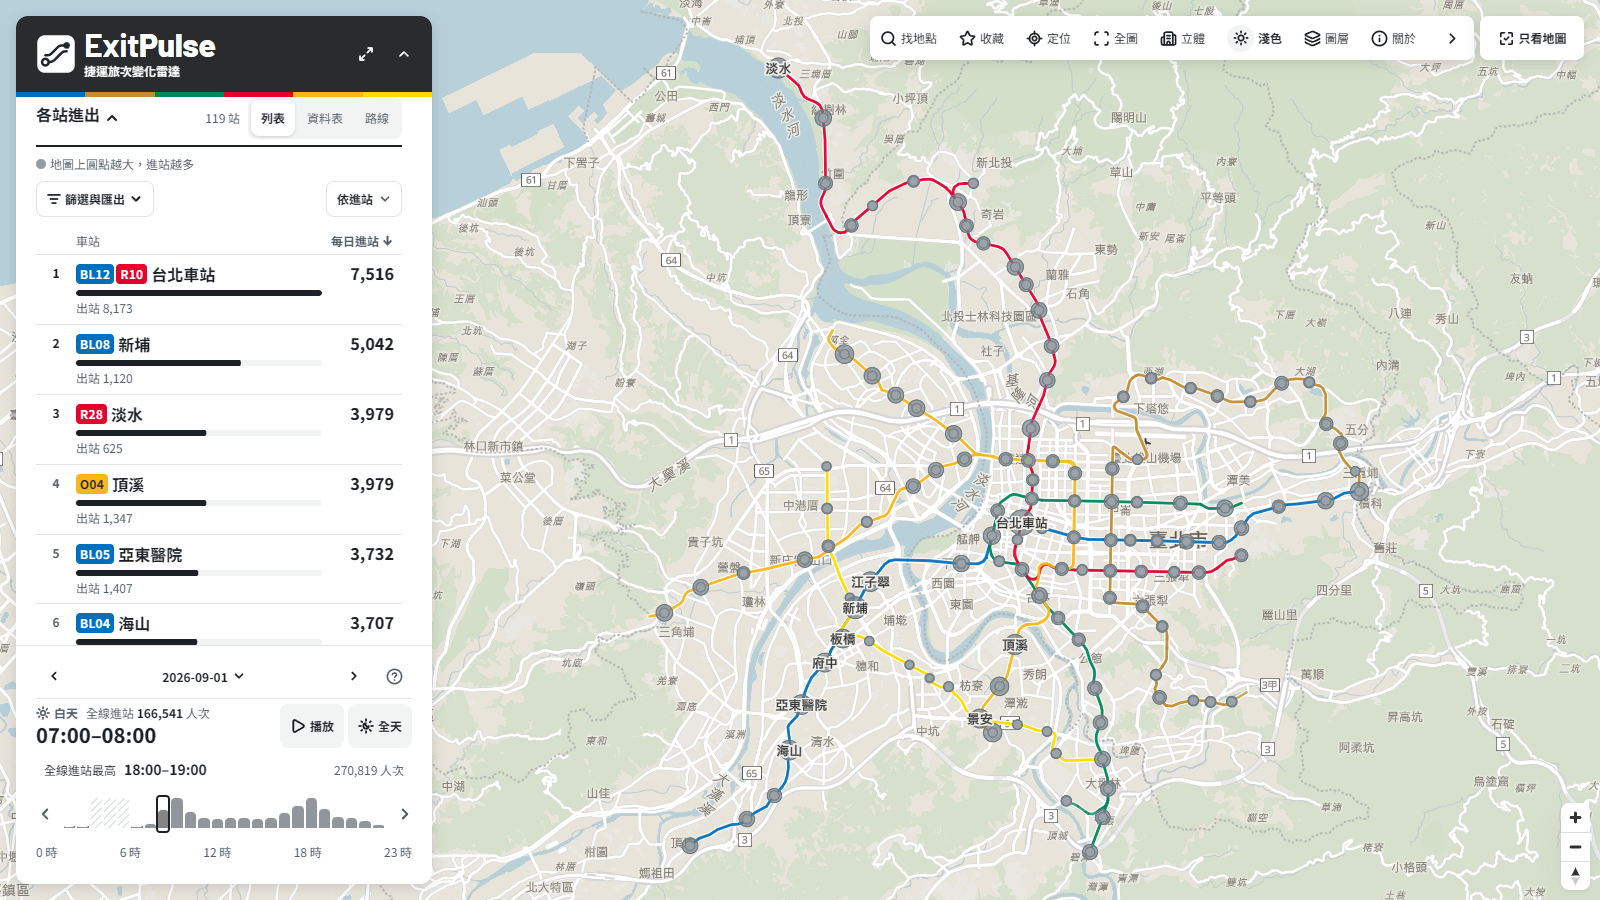
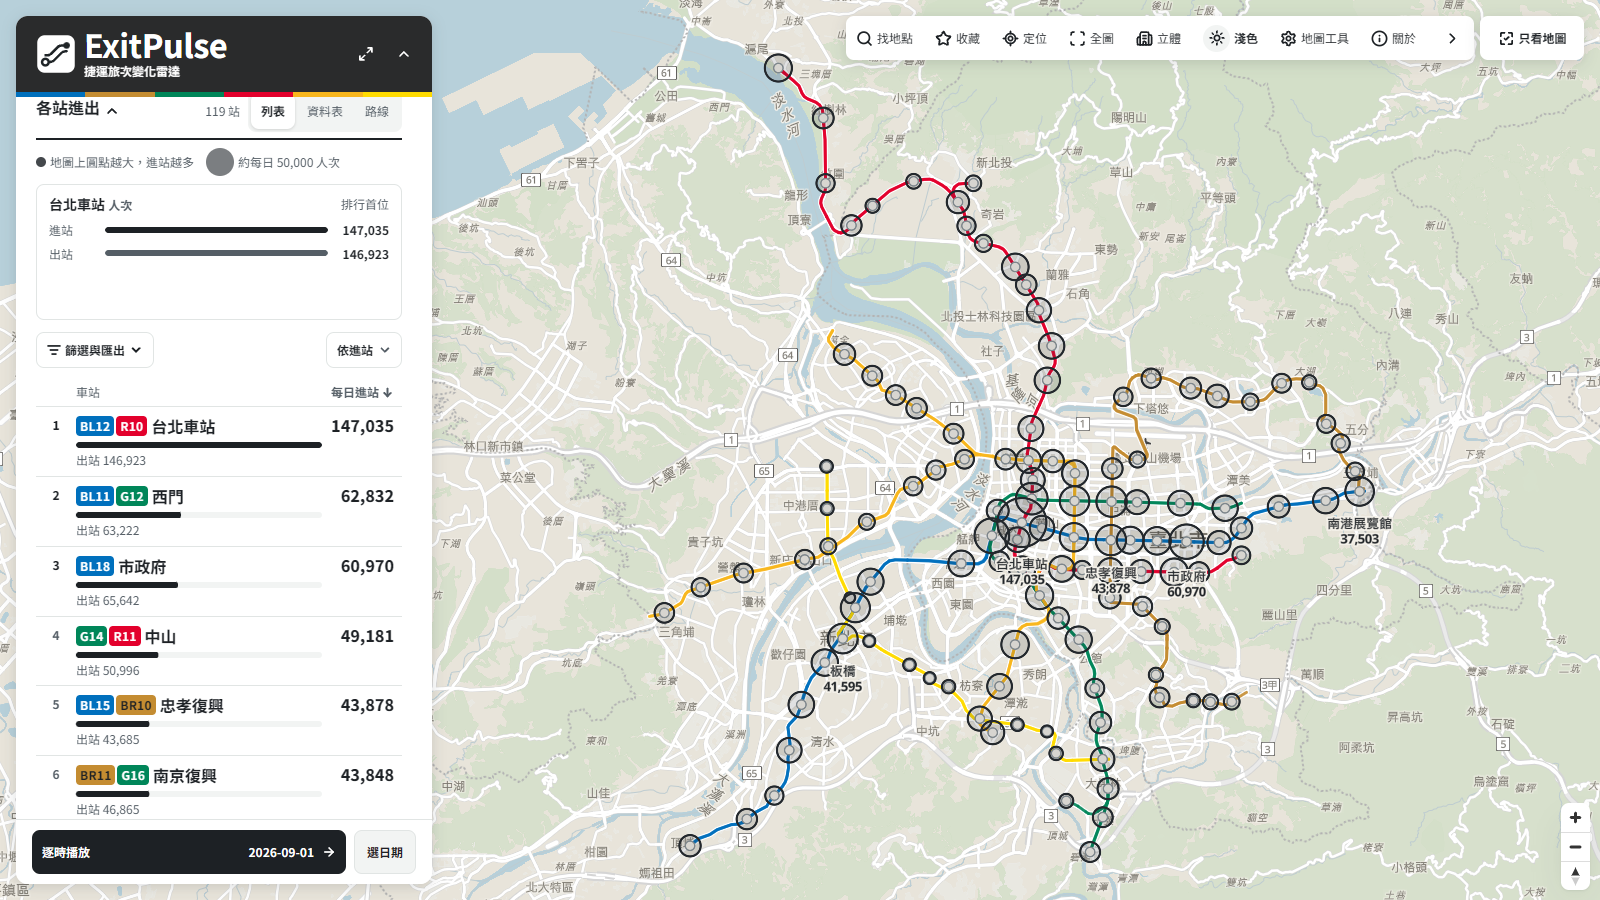
feat: 圓圈透明度滑桿，README 全線截圖改新版空心環

diff --git a/apps/web/src/app/radar.ts b/apps/web/src/app/radar.ts
@@ -81,6 +81,8 @@ const MIN_TOWER_PITCH = 20;
 /** 全線圓圈底色：淺底深藍、深底亮青，兩種底圖上都跟灰色路網分得開。圖層資料裡的灰色只是「未選取」的記號。 */
 const DOT = { light: '#23282d', dark: '#f1f4f6' };
 const dotColor = (dark: boolean) => ['case', ['==', ['get', 'color'], '#6f7b85'], dark ? DOT.dark : DOT.light, ['get', 'color']] as never;
+/** 圓圈透明度 k（1 為預設，越小越淡），外環、淡填色與內圓一起縮放 */
+const dotFill = (k: number) => ['case', ['==', ['get', 'inner'], 0], .14 * k, .06 * k] as never;
 const NIGHT_STATION = { regular: '#a6b7c0', ranked: '#e7eef1', rim: '#35454e', rankInk: '#15232b' };
 /** Positron 底圖幾乎全白，這組色票讓陸地、水域、公園與文字有足夠層次，長時間看也不刺眼。 */
 const LIGHT_MAP = { land: '#e8e4da', water: '#b7d0da', park: '#d3dfc8', building: '#dcd7cb', label: '#5e5a51', halo: '#f4f1ea' };
@@ -216,6 +218,18 @@ export class Radar implements OnDestroy {
     return { baseline, current };
   });
   readonly showPlaces = signal(false);
+  /** 全線圓圈透明度 0–80%，記在本機 */
+  readonly dotTransparency = signal(((): number => { try { const v = Number(localStorage.getItem('exitpulse.dot')); return v >= 0 && v <= 80 ? v : 0; } catch { return 0; } })());
+  setDotTransparency(value: string | number) {
+    const percent = Math.min(80, Math.max(0, Math.round(Number(value) / 10) * 10));
+    this.dotTransparency.set(percent);
+    try { localStorage.setItem('exitpulse.dot', String(percent)); } catch { /* 無痕模式存不了就只在本次有效 */ }
+    const map = this.map, k = 1 - percent / 100;
+    if (!map?.getLayer('explore-circles')) return;
+    map.setPaintProperty('explore-circles', 'circle-opacity', dotFill(k));
+    map.setPaintProperty('explore-circles', 'circle-stroke-opacity', k);
+    map.setPaintProperty('explore-inner', 'circle-opacity', .62 * k);
+  }
   readonly showLegend = signal(true);
   readonly showMetro = signal(true);
   /** 立體建築：近距離時建築長出高度，並自動微傾地圖 */
@@ -1313,9 +1327,9 @@ export class Radar implements OnDestroy {
     map.addLayer({ id: 'od-streams-dashed', type: 'line', source: 'od-streams', filter: ['==', ['get', 'dashed'], true], layout: { 'line-cap': 'butt', 'line-sort-key': ['get', 'opacity'] }, paint: { 'line-color': ['get', 'color'], 'line-width': ['get', 'width'], 'line-opacity': ['get', 'opacity'], 'line-dasharray': [1.5, 1.2] } });
     map.addLayer({ id: 'od-streams', type: 'line', source: 'od-streams', filter: ['==', ['get', 'dashed'], false], layout: { 'line-cap': 'round', 'line-sort-key': ['get', 'opacity'] }, paint: { 'line-color': ['get', 'color'], 'line-width': ['max', 0.8, ['*', ['get', 'width'], .24]], 'line-width-transition': { duration: 0 }, 'line-opacity': ['get', 'opacity'] } });
     map.addSource('explore-circles', { type: 'geojson', data: EMPTY });
-    map.addLayer({ id: 'explore-circles', type: 'circle', source: 'explore-circles', layout: { 'circle-sort-key': ['-', 0, ['get', 'radius']] }, paint: { 'circle-radius': zoomScaled(['get', 'radius']), 'circle-color': dotColor(dark), 'circle-opacity': ['case', ['==', ['get', 'inner'], 0], .14, .06], 'circle-stroke-color': dotColor(dark), 'circle-stroke-opacity': 1, 'circle-stroke-width': 2.2 } });
+    map.addLayer({ id: 'explore-circles', type: 'circle', source: 'explore-circles', layout: { 'circle-sort-key': ['-', 0, ['get', 'radius']] }, paint: { 'circle-radius': zoomScaled(['get', 'radius']), 'circle-color': dotColor(dark), 'circle-opacity': dotFill(1 - this.dotTransparency() / 100), 'circle-stroke-color': dotColor(dark), 'circle-stroke-opacity': 1 - this.dotTransparency() / 100, 'circle-stroke-width': 2.2 } });
     // 比較模式：外環是本期、實心內圓是對照期，增減一眼看出（內圓比外環大就是減少）
-    map.addLayer({ id: 'explore-inner', type: 'circle', source: 'explore-circles', filter: ['>', ['get', 'inner'], 0], layout: { 'circle-sort-key': ['-', 0, ['get', 'radius']] }, paint: { 'circle-radius': zoomScaled(['get', 'inner']), 'circle-color': dotColor(dark), 'circle-opacity': .62 } });
+    map.addLayer({ id: 'explore-inner', type: 'circle', source: 'explore-circles', filter: ['>', ['get', 'inner'], 0], layout: { 'circle-sort-key': ['-', 0, ['get', 'radius']] }, paint: { 'circle-radius': zoomScaled(['get', 'inner']), 'circle-color': dotColor(dark), 'circle-opacity': .62 * (1 - this.dotTransparency() / 100) } });
     map.addLayer({ id: 'explore-labels', type: 'symbol', source: 'explore-circles', filter: ['!=', ['get', 'label'], ''], layout: { 'text-field': ['get', 'label'], 'text-font': ['Noto Sans Bold'], 'text-size': 13, 'text-padding': 4, 'symbol-sort-key': ['-', 0, ['get', 'radius']],
       // 字一律放在圓的正下方，間距跟著圓一起放大，避開圓與選取環
       'text-variable-anchor': ['top'], 'text-radial-offset': zoomScaled(['get', 'radius'], 11, 13) }, paint: { 'text-color': ink, 'text-halo-color': halo, 'text-halo-width': 2 } });

diff --git a/apps/web/src/app/map-tools.css b/apps/web/src/app/map-tools.css
@@ -45,6 +45,8 @@
   .layer-menu .layer-options::before { left: auto; right: 28px; }
 }
 .layer-options label { display: flex; align-items: center; justify-content: space-between; gap: var(--sp-2); min-height: 44px; cursor: pointer; }
+.layer-options .range-row input { flex: 1 1 90px; min-width: 70px; max-width: 130px; accent-color: var(--ink); }
+.layer-options .range-row output { min-width: 34px; text-align: right; color: var(--ink-2); font-size: var(--fs-xs); font-variant-numeric: tabular-nums; }
 .layer-options input[role="switch"] { display: grid; align-items: center; appearance: none; width: 44px; height: 24px; padding: 3px; margin: 0; border: 1px solid var(--ink-2); border-radius: var(--r-l); background: var(--panel-2); cursor: pointer; }
 .layer-options input[role="switch"]::before { content: ''; width: 16px; height: 16px; border-radius: 50%; background: var(--ink-2); transition: translate .15s; }
 .layer-options input[role="switch"]:checked { border-color: var(--ink); background: var(--ink); }

diff --git a/apps/web/src/app/radar.html b/apps/web/src/app/radar.html
@@ -170,6 +170,7 @@
         </div>
         <details class="layer-group" [open]="!phone()">
           <summary>圖層<svg viewBox="0 0 24 24" aria-hidden="true"><path d="m6 9 6 6 6-6"/></svg></summary>
+          <label class="range-row">圓圈透明度<input type="range" min="0" max="80" step="10" [value]="dotTransparency()" (input)="setDotTransparency($any($event.target).value)" aria-valuetext="{{ dotTransparency() }}%"><output>{{ dotTransparency() }}%</output></label>
           <label>更多地名與地點<input type="checkbox" role="switch" [checked]="showPlaces()" (change)="toggleMapOption('places')"></label>
           <label>街道與建物<input type="checkbox" role="switch" [checked]="showRoads()" (change)="toggleMapOption('roads')"></label>
           <label>水系與綠地<input type="checkbox" role="switch" [checked]="showNature()" (change)="toggleMapOption('nature')"></label>

diff --git a/CHANGELOG.md b/CHANGELOG.md
@@ -39,6 +39,7 @@
 - 地圖上的車站圓圈與選取環隨縮放一起變大，人次標籤固定放在圓正下方，間距跟著圓走，不再被圓或選取環蓋住。
 - 全線圓圈疊在一起時，小圓畫在大圓上面，填色改半透明、邊線加粗，每個圓都看得出輪廓。
 - 全線圓圈改成空心環：淺色底圖用墨色、深色底圖用近白，淡填色，底下的路線與街道看得見。比較兩個月份時外環是本期、實心內圓是對照期，內圓比外環大就是減少。捷運路線加寬、顏色更飽和，近景會跟著變粗。
+- 地圖工具的「圖層」第一項新增「圓圈透明度」滑桿，0 到 80%，會記住。
 - 起始卡底部的範例卡列捲到最左時貼著邊緣，現在左右都留與面板相同的間隔。
 
 ## 1.1.0（2026-11-19）
